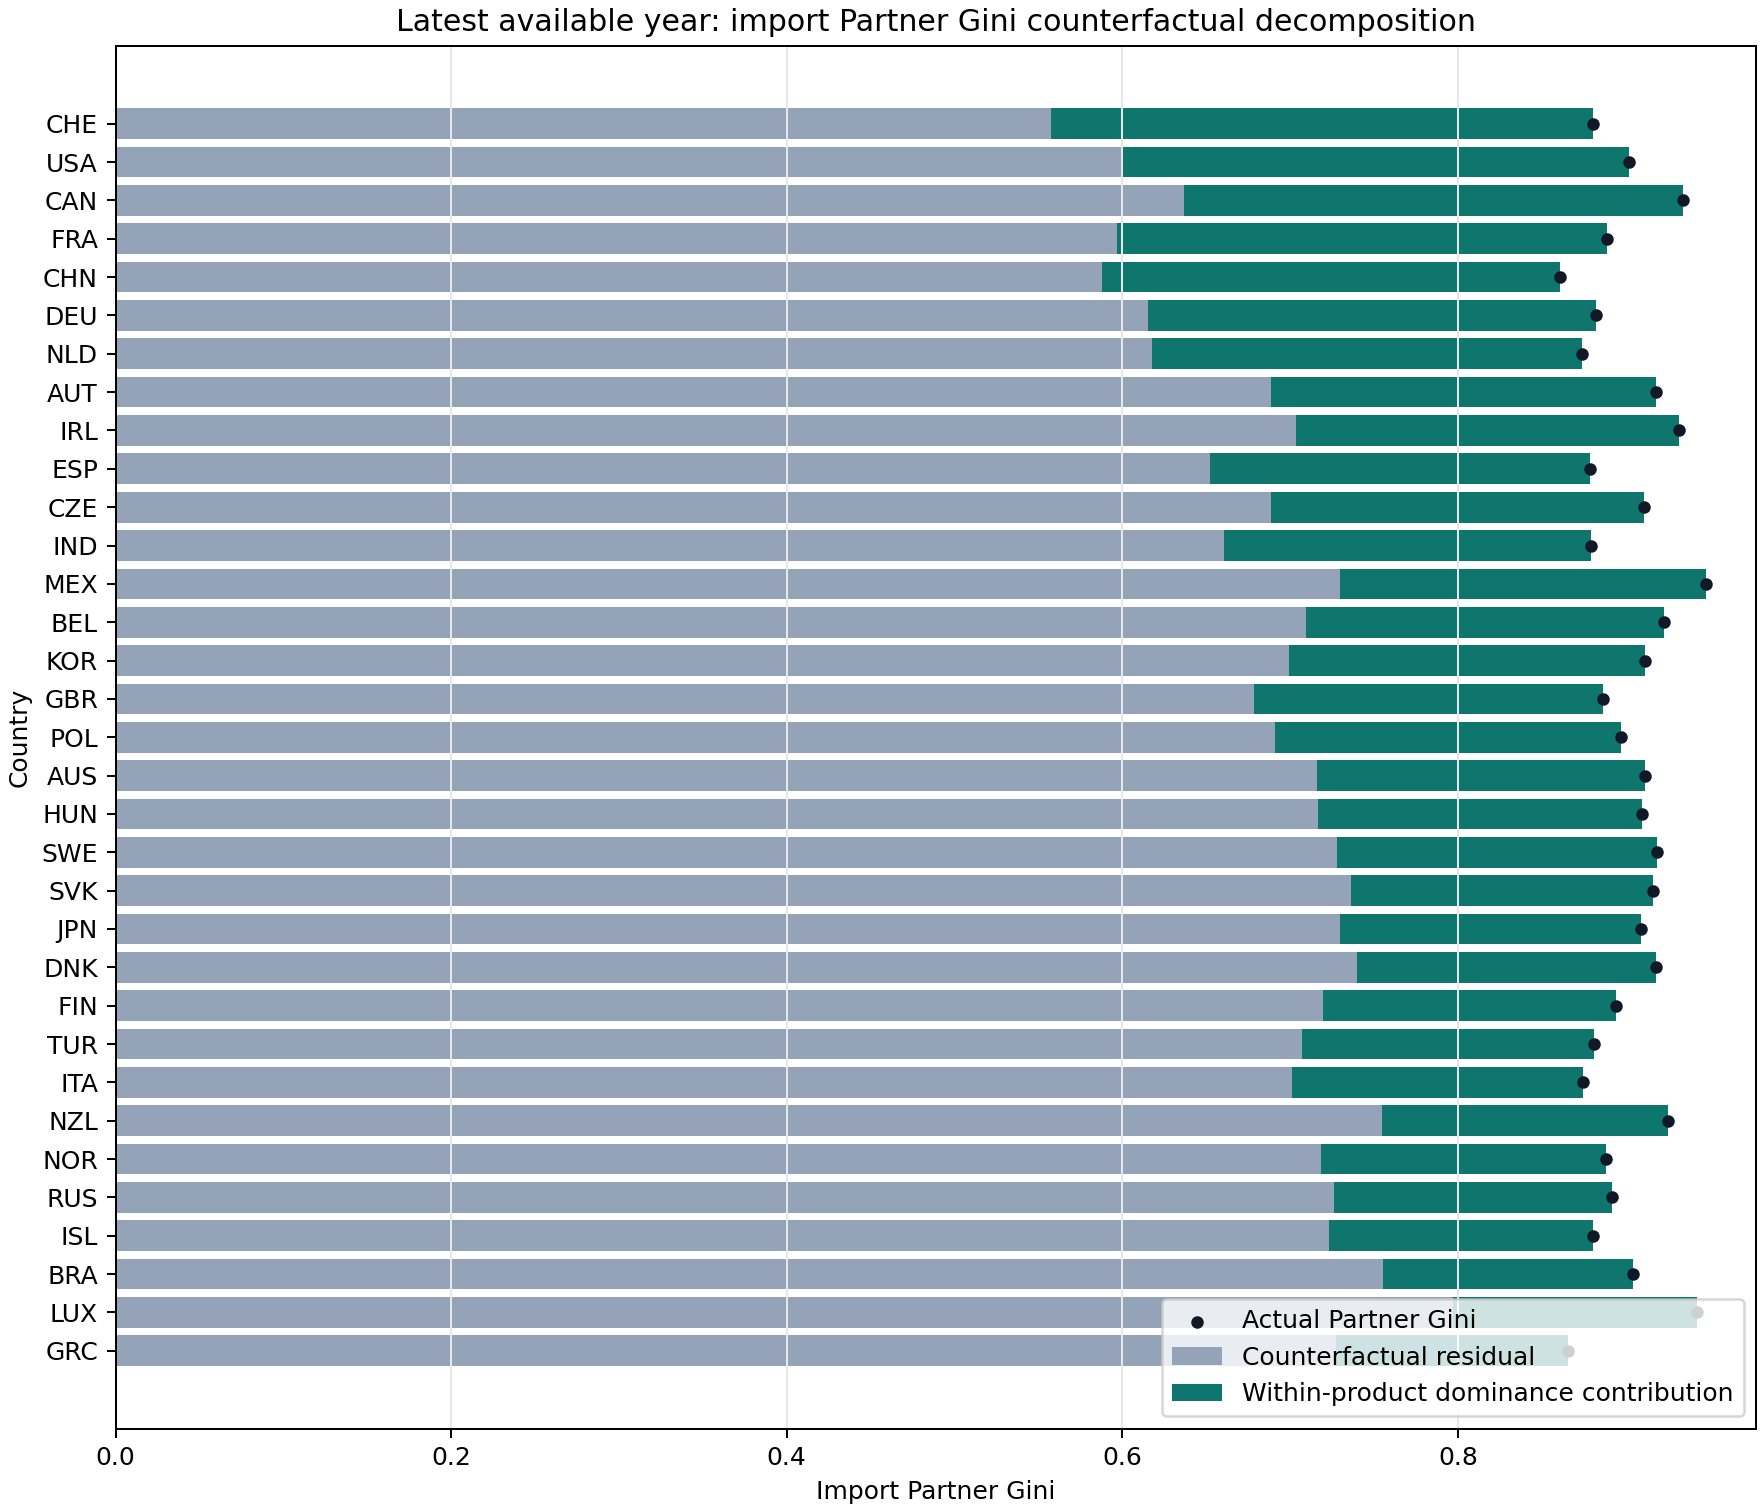
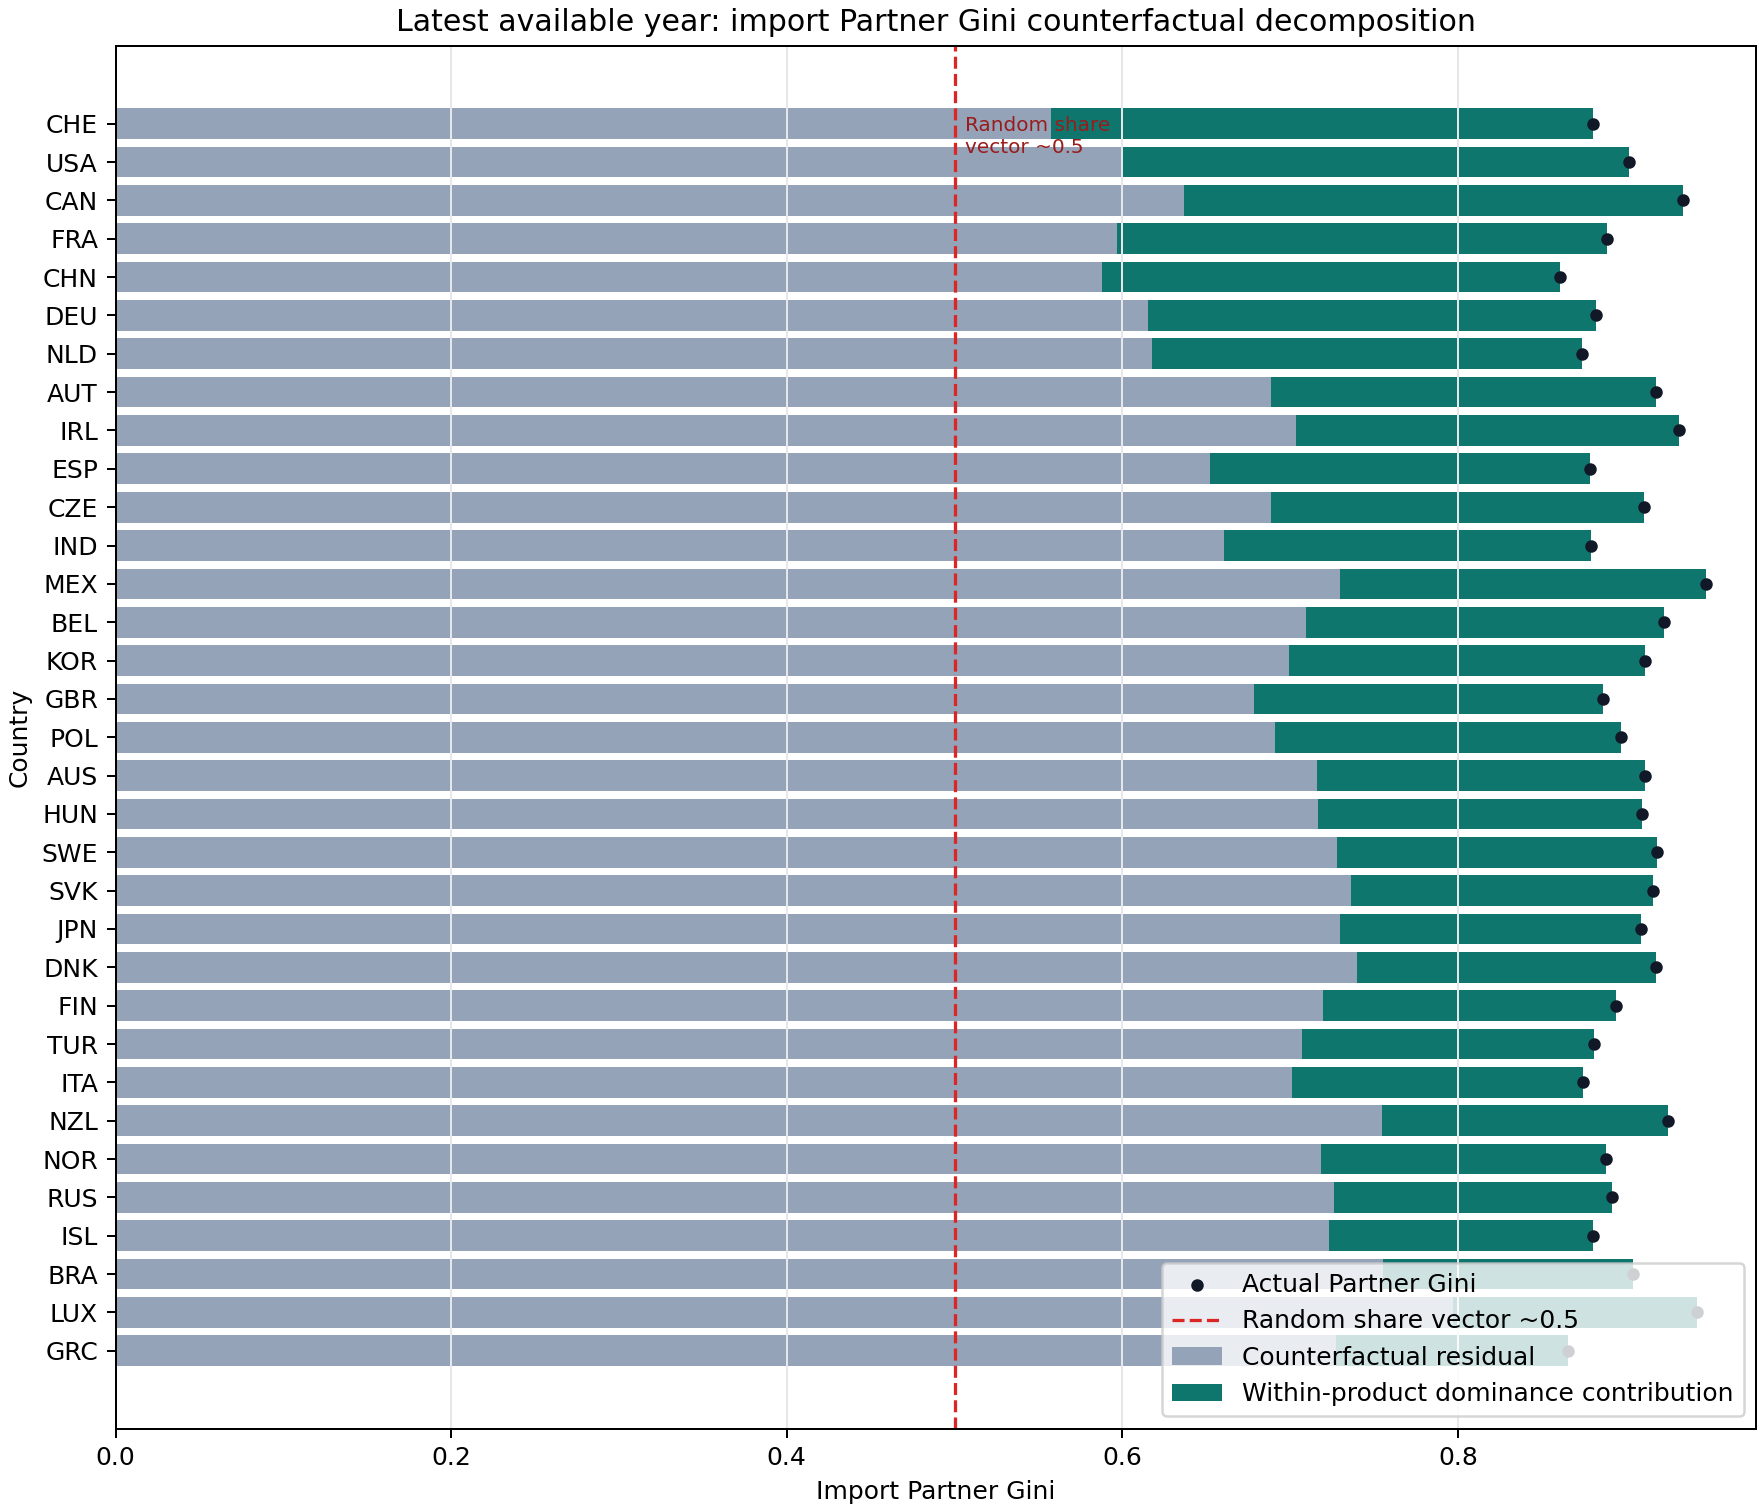
Mark random share benchmark on exercise 4 charts

Changed region(s): [[0.6548, 0.8082, 0.9354, 0.9015], [0.53, 0.0622, 0.6236, 0.0933]]

diff --git a/imports.html b/imports.html
@@ -4,7 +4,7 @@
   <meta charset="utf-8">
   <meta name="viewport" content="width=device-width, initial-scale=1">
   <title>Import Concentration Mechanisms</title>
-  <link rel="stylesheet" href="assets/site.css?v=202605210956200000">
+  <link rel="stylesheet" href="assets/site.css?v=202605211105310000">
 </head>
 <body data-page="imports">
   <header class="site-header">
@@ -116,10 +116,11 @@
             <p><strong>Actual Partner Gini</strong> is computed across source countries after summing imports over all HS6 products: <code>Gini_j(sum_p imports_pj)</code>.</p>
             <p><strong>Conservative counterfactual</strong> keeps each product's total imports and observed supplier set fixed, but gives every observed supplier the same product share: <code>imports_pj = product_total_p / observed_suppliers_p</code>. The remaining Gini is the residual partner concentration after within-product supplier dominance is neutralized.</p>
             <p><strong>Explained share</strong> is <code>(actual Partner Gini - counterfactual Partner Gini) / actual Partner Gini</code>. Negative values are allowed. The <strong>full-diffusion upper bound</strong> spreads every product equally across all active partners in the country-year; it is a deliberately strong benchmark and collapses Partner Gini to zero by construction.</p>
+            <p><strong>Dashed 0.5 line:</strong> a symmetric random positive share vector across many active items has Gini around 0.5. In Product-Gini charts those items are active products; in these Exercise 4 Partner-Gini charts, read the line as the same rough benchmark across active source partners.</p>
           </div>
         
       <div class="note">
-        <p><strong>Interpretation rule:</strong> the teal part of the latest-country chart is the amount of aggregate Partner Gini removed by equalizing suppliers within each observed HS6 product. The gray part is the residual Partner Gini left after that equalization. The full-diffusion benchmark is shown only as an upper bound because it also equalizes products across partners that were not observed supplying that product.</p>
+        <p><strong>Interpretation rule:</strong> the teal part of the latest-country chart is the amount of aggregate Partner Gini removed by equalizing suppliers within each observed HS6 product. The gray part is the residual Partner Gini left after that equalization. The dashed 0.5 line marks the symmetric random share-vector benchmark, not perfect equality. The full-diffusion benchmark is shown only as an upper bound because it also equalizes products across partners that were not observed supplying that product.</p>
       </div>
       <div class="figure-row">
         <figure><a class="figure-link" href="assets/figures/ex4_partner_counterfactual_latest.png"><img src="assets/figures/ex4_partner_counterfactual_latest.png" alt="Latest-year import Partner Gini counterfactual decomposition"></a><figcaption>Actual Partner Gini equals the conservative counterfactual residual plus the within-product dominance contribution.</figcaption></figure>
@@ -219,10 +220,10 @@
     
   </main>
   <footer class="site-footer">
-    <p>Generated from local research outputs on 2026-05-21T09:56:20+00:00.</p>
+    <p>Generated from local research outputs on 2026-05-21T11:05:31+00:00.</p>
   </footer>
   <script src="assets/vendor/plotly.min.js"></script>
-  <script src="assets/site-data.js?v=202605210956200000"></script>
-  <script src="assets/site.js?v=202605210956200000"></script>
+  <script src="assets/site-data.js?v=202605211105310000"></script>
+  <script src="assets/site.js?v=202605211105310000"></script>
 </body>
 </html>

diff --git a/extension.html b/extension.html
@@ -4,7 +4,7 @@
   <meta charset="utf-8">
   <meta name="viewport" content="width=device-width, initial-scale=1">
   <title>Extending the 2001 Trade Concentration Evidence</title>
-  <link rel="stylesheet" href="assets/site.css?v=202605210956200000">
+  <link rel="stylesheet" href="assets/site.css?v=202605211105310000">
 </head>
 <body data-page="extension">
   <header class="site-header">
@@ -206,10 +206,10 @@
     
   </main>
   <footer class="site-footer">
-    <p>Generated from local research outputs on 2026-05-21T09:56:20+00:00.</p>
+    <p>Generated from local research outputs on 2026-05-21T11:05:31+00:00.</p>
   </footer>
   <script src="assets/vendor/plotly.min.js"></script>
-  <script src="assets/site-data.js?v=202605210956200000"></script>
-  <script src="assets/site.js?v=202605210956200000"></script>
+  <script src="assets/site-data.js?v=202605211105310000"></script>
+  <script src="assets/site.js?v=202605211105310000"></script>
 </body>
 </html>

diff --git a/index.html b/index.html
@@ -4,7 +4,7 @@
   <meta charset="utf-8">
   <meta name="viewport" content="width=device-width, initial-scale=1">
   <title>Trade Concentration Brief</title>
-  <link rel="stylesheet" href="assets/site.css?v=202605210956200000">
+  <link rel="stylesheet" href="assets/site.css?v=202605211105310000">
 </head>
 <body data-page="overview">
   <header class="site-header">
@@ -74,10 +74,10 @@
     
   </main>
   <footer class="site-footer">
-    <p>Generated from local research outputs on 2026-05-21T09:56:20+00:00.</p>
+    <p>Generated from local research outputs on 2026-05-21T11:05:31+00:00.</p>
   </footer>
   <script src="assets/vendor/plotly.min.js"></script>
-  <script src="assets/site-data.js?v=202605210956200000"></script>
-  <script src="assets/site.js?v=202605210956200000"></script>
+  <script src="assets/site-data.js?v=202605211105310000"></script>
+  <script src="assets/site.js?v=202605211105310000"></script>
 </body>
 </html>

diff --git a/methods.html b/methods.html
@@ -4,7 +4,7 @@
   <meta charset="utf-8">
   <meta name="viewport" content="width=device-width, initial-scale=1">
   <title>Methods and Downloads</title>
-  <link rel="stylesheet" href="assets/site.css?v=202605210956200000">
+  <link rel="stylesheet" href="assets/site.css?v=202605211105310000">
 </head>
 <body data-page="methods">
   <header class="site-header">
@@ -78,10 +78,10 @@
     
   </main>
   <footer class="site-footer">
-    <p>Generated from local research outputs on 2026-05-21T09:56:20+00:00.</p>
+    <p>Generated from local research outputs on 2026-05-21T11:05:31+00:00.</p>
   </footer>
   <script src="assets/vendor/plotly.min.js"></script>
-  <script src="assets/site-data.js?v=202605210956200000"></script>
-  <script src="assets/site.js?v=202605210956200000"></script>
+  <script src="assets/site-data.js?v=202605211105310000"></script>
+  <script src="assets/site.js?v=202605211105310000"></script>
 </body>
 </html>